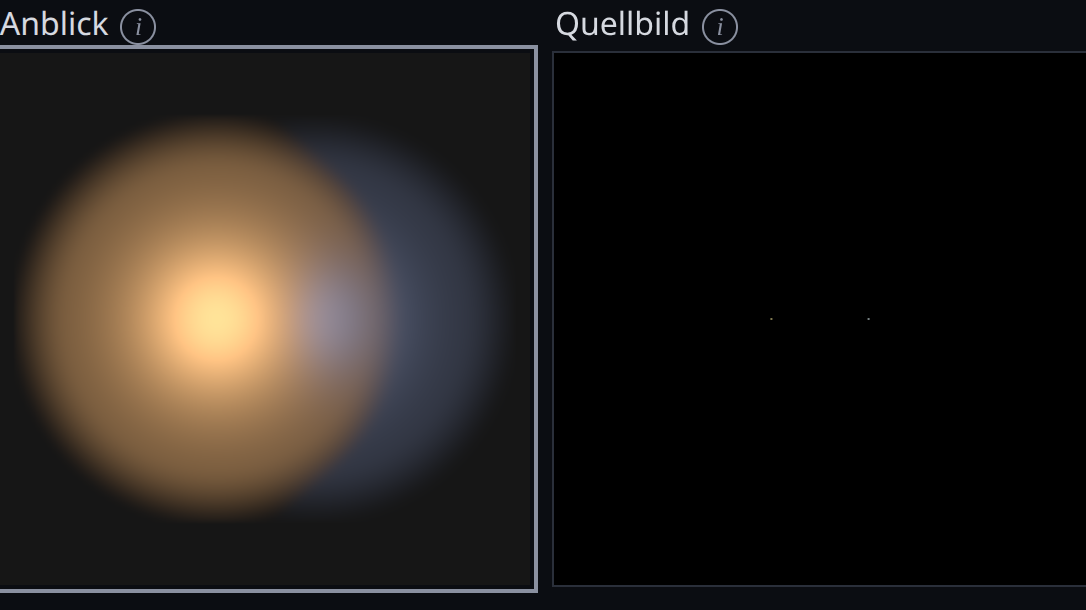
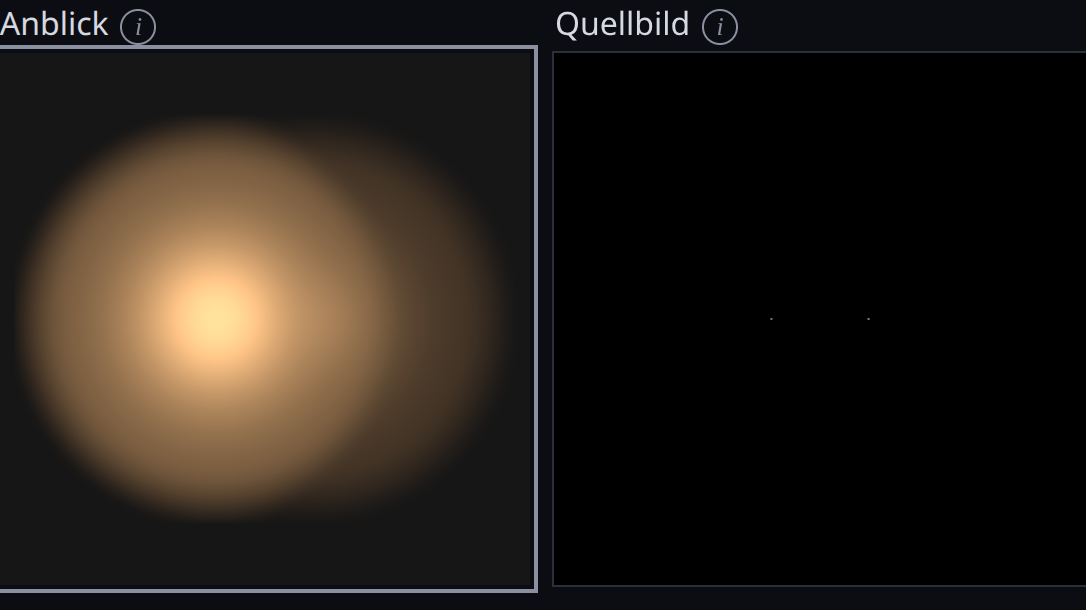
Validierung: Bilder und validierung.md 14 nach der Farbkopplung (Issue #146)
Geaendert: T7a, T7c, T8a, T8c, T9b, T9c (Zoom, Uebersicht, Detail T8c);
alle anderen Bilder bytegleich. 14.1 T7a einfarbig (Urteil Herbert
2026-11-02), T9b/T9c behoben (Urteil offen), neuer Abschnitt 14.6.

Changed region(s): [[0.2735, 0.2492, 0.4558, 0.8098]]

diff --git a/docs/validierung.md b/docs/validierung.md
@@ -413,13 +413,13 @@ Testfaelle aus `docs/recherche/README.md` (bestaetigt 2026-10-29, T11 mit $F$ = 
 
 | Fall | Erwartung | Messung (Bild: Delle der Punktebene; feines Modell; Anzeige) | Urteil (Vorschlag) | Urteil Herbert |
 |---|---|---|---|---|
-| T7a, T7c | 80 mm: Pi Aql und Epsilon Ari nicht getrennt, laenglich | $\delta$ = 0 und 0 (fein 0 und 0); ein laenglicher Fleck ohne Einsattelung. Pi Aql zeigt zwei Farben (A gelblich, B blaeulich) nebeneinander, Epsilon Ari ist einfarbig | bestanden (T7a: Farbe deutet die beiden Sterne an, Hinweis fuer Herbert) | Herbert 2026-10-30: bestanden |
+| T7a, T7c | 80 mm: Pi Aql und Epsilon Ari nicht getrennt, laenglich | $\delta$ = 0 und 0 (fein 0 und 0); ein laenglicher Fleck ohne Einsattelung. Pi Aql zeigt zwei Farben (A gelblich, B blaeulich) nebeneinander, Epsilon Ari ist einfarbig | bestanden (T7a: Farbe deutet die beiden Sterne an, Hinweis fuer Herbert). **Nach #146** (14.6): T7a einfarbig (Farbton an B gegen Spiegelpunkt 25 auf 1 Kode) | Herbert 2026-10-30: bestanden. Herbert 2026-11-02: T7a nach #146 einfarbig, gewollt (ungetrennt keine eigene Farbe, `doppelsterne.md` 10) |
 | T7b, T7d | 150 mm: beide getrennt | $\delta$ = 0,214 und 0,141 (fein 0,483 und 0,330); zwei Kerne mit flacher Einsattelung (Anzeige 116 / 111 / 116 und 145 / 135 / 138). **Nach #145** (14.5): $\delta$ = 0,476 und 0,331, Anzeige 122 / 108 / 122 und 152 / 135 / 143 | bestanden (Epsilon Ari knapp, 13 % ueber der Schwelle) | Herbert 2026-10-30: bestanden (Epsilon Ari knapp) |
 | T8a | 10x50: zwei runde Sterne | Weites Paar getrennt ($\delta$ = 1), Epsilon1 und Epsilon2 je $\delta$ = 0; zwei runde Sterne (Uebersicht und Zoom) | bestanden | Herbert 2026-10-30: bestanden |
 | T8b | 80 mm, 0,5'': beide engen Paare getrennt | Epsilon2 $\delta$ = 0,515 (fein 0,623), zwei Kerne; Epsilon1 $\delta$ = 0 (fein 0,139): laenglich, zwei unterschiedlich gefaerbte Kerne, aber keine Einsattelung (Detail, Profil quer 96 / 105 / 106 / 106 / 107). **Nach #145** (14.5): Epsilon1 im Detail $\delta$ = 0,134 (fein 0,142), zwei Kerne mit Beugungsring, Anzeige 130 / 112 / 114 (2 Kodes); im Zoom 0,072; Epsilon2 0,523 | **Abweichung** (Epsilon1 nicht getrennt); nach #145 bestanden (Epsilon1 im Detail knapp, 7 % ueber der Schwelle, am Bildschirm 2 Kodes) | Herbert 2026-10-30: Abweichung, [#145](https://github.com/herr-cbert/astobsim/issues/145) (Version 2). Herbert 2026-11-02: nach #145 getrennt, Kriterium ist das Detailfenster (im Zoom genuegt 0,072 nicht, die Anzeige tastet dort zu grob ab; kein Folge-Issue) |
 | T8c | 80 mm, 2'': keines getrennt | $\delta$ = 0 und 0,002; zwei leicht laengliche Flecke | bestanden | Herbert 2026-10-30: bestanden |
 | T9a | 150 mm, 0,5'': B getrennt, Hinweis "Ueberstrahlung nicht simuliert" | $\delta$ = 0,303 (fein 0,527); B als blaeulicher Fleck am Rand des orangen Halos (Anzeige A 219, Sattel 143, B 155); Warnung `ueberstrahlung` mit 4,44 mag. **Nach #145** (14.5): $\delta$ = 0,497 (vor der Nacharbeit Halo-Rand 0,500), Anzeige A 220, Sattel 143, B 168 | bestanden | Herbert 2026-10-30: bestanden |
-| T9b, T9c | 1,5'' oder 15 Grad Hoehe: nicht getrennt | $\delta$ = 0 und 0; keine Einsattelung, aber am Ort von B eine blaeulich-graue Stelle im orangen Halo (T9b sRGB 158 / 136 / 132 gegen 184 / 141 / 94 am Spiegelpunkt, T9c 140 / 130 / 143 gegen 152 / 115 / 77) | bestanden nach der Delle; **Abweichung** im Farbeindruck (B an der Farbe erkennbar), siehe 14.2 | Herbert 2026-10-30: Abweichung im Farbeindruck, [#146](https://github.com/herr-cbert/astobsim/issues/146) (Version 2) |
+| T9b, T9c | 1,5'' oder 15 Grad Hoehe: nicht getrennt | $\delta$ = 0 und 0; keine Einsattelung, aber am Ort von B eine blaeulich-graue Stelle im orangen Halo (T9b sRGB 158 / 136 / 132 gegen 184 / 141 / 94 am Spiegelpunkt, T9c 140 / 130 / 143 gegen 152 / 115 / 77) | bestanden nach der Delle; **Abweichung** im Farbeindruck (B an der Farbe erkennbar), siehe 14.2. **Nach #146** (14.6): kein Farbfleck, Farbton an B wie am Spiegelpunkt (T9b 36 auf 0, T9c 50 auf 0 Kodes); B bleibt als orange Schulter im Halo; bestanden | Herbert 2026-10-30: Abweichung im Farbeindruck, [#146](https://github.com/herr-cbert/astobsim/issues/146) (Version 2). Nach #146: Urteil Herbert offen |
 | T10a | 80 mm, 80-fach: kleines Oval sichtbar, Loch hoechstens angedeutet | Isophote 20,30 mag/arcsec$^2$, 4373 arcsec$^2$ (Oval 88'' x 60'': 4147); Anzeige Himmel 25, Ring 40, Mitte 35 bis 36: ovaler Ring mit sichtbar dunklerer Mitte. Loch linear: Delle 0,556 nach der Faltung (Python am Quellbild, gerechnet) | Oval bestanden; **Abweichung** beim Loch (deutlich statt angedeutet; die Literatur ist uneins, `deep-sky.md` 8 Punkt 1) | Herbert 2026-10-30: bestanden mit Anmerkung: Loch am Bild eher angedeutet (Mitte 35 gegen Ring 40), Literatur uneins; kein Issue |
 | T10b | 150 mm: Ring mit dunkler Mitte | Isophote 20,90, 4692 arcsec$^2$; Anzeige Himmel 28, Ring 44, Mitte 39; Loch linear 0,576 | bestanden; das Bild unterscheidet sich vom 80 mm kaum (etwas heller, gleicher Kontrast) | Herbert 2026-10-30: bestanden |
 | T11a | Bortle 3: M31 sichtbar, laenglich, 1,5 bis 3 Grad | $C/C_\mathrm{th}$ = 1 (Vorzeichenwechsel), Isophote 22,47, grosse Achse 101' (Prototyp 106'); laengliche Scheibe mit hellem Kern, an beiden Enden schwach die Stufen der Mosaikkante (Abschnitt 10) | bestanden | Herbert 2026-10-30: bestanden |
@@ -434,7 +434,7 @@ Testfaelle aus `docs/recherche/README.md` (bestaetigt 2026-10-29, T11 mit $F$ = 
 ### 14.2 Pruefpunkte aus architektur.md 5.7
 
 - **Deckkraft am gefalteten $q$ bei M57 am 80 mm (T10a).** Gerechnet in Python: Quellbild nach der log-Kennlinie linear, flaechig auf den Arbeitsmassstab 2,20'' gemittelt, mit dem Kern aus `auswerten` (9 px, Gesamt-FWHM 2,59'') gefaltet; $q^*$ = 0,0370 aus der Tabelle des ungefalteten Bilds. Deckkraft ungefaltet gegen gefaltet: Mitte 1,000 / 1,000, Ring 1,000 / 1,000; Flaeche mit $P \ge$ 0,5 4471 / 4654 arcsec$^2$ (Tabelle 4373); grosse Achse 86,8'' / 87,9''; Delle des Lochs (linear) 0,576 / 0,556. Am 150 mm (1,47'', 11 px): Flaeche 4719 / 4867 (Tabelle 4692). Die Rechnung trifft die Anzeigewerte des Screenshots (Himmel 25, Ring 40, Mitte 35 bis 36). **Ergebnis:** Die Naeherung verschiebt die sichtbare Flaeche um 4 % und die Achse um 1''; bei M57 liegt $q^*$ auf der steilen Aussenkante und die Faltung (2,6'') ist klein gegen das Objekt (88''). Bestanden, kein Issue; erledigt (Herbert 2026-10-30).
-- **Mischfarbe Antares B im Halo von A (T9).** Gerechnet mit `falteFaerbung` am Pixel von B: bei 0,5'' (getrennt) traegt B 88 % des Flusses, die Farbe ist 0,90 / 0,98 / 1,50 (linear sRGB, Y = 1) gegen B allein 0,80 / 0,99 / 1,65 und A 1,62 / 0,88 / 0,36: etwas weniger blau als B, als Fleck klar blaeulich (Bild 140 / 145 / 174). Bei 1,5'' (nicht getrennt) traegt B nur 24 %, die Farbe ist 1,42 / 0,91 / 0,67, also orange; trotzdem ist B im Bild als blaeulich-graue Stelle am Rand des Halos zu sehen (T9b, Zahlen in 14.1), weil der Halo von A dort orange und dunkler ist. **Ergebnis:** Die Mischung selbst ist plausibel und bleibt; offen ist, ob der Begleiter ohne Einsattelung an der Farbe erkennbar sein soll: [#146](https://github.com/herr-cbert/astobsim/issues/146) (Version 2, Herbert 2026-10-30).
+- **Mischfarbe Antares B im Halo von A (T9).** Gerechnet mit `falteFaerbung` am Pixel von B: bei 0,5'' (getrennt) traegt B 88 % des Flusses, die Farbe ist 0,90 / 0,98 / 1,50 (linear sRGB, Y = 1) gegen B allein 0,80 / 0,99 / 1,65 und A 1,62 / 0,88 / 0,36: etwas weniger blau als B, als Fleck klar blaeulich (Bild 140 / 145 / 174). Bei 1,5'' (nicht getrennt) traegt B nur 24 %, die Farbe ist 1,42 / 0,91 / 0,67, also orange; trotzdem ist B im Bild als blaeulich-graue Stelle am Rand des Halos zu sehen (T9b, Zahlen in 14.1), weil der Halo von A dort orange und dunkler ist. **Ergebnis:** Die Mischung selbst ist plausibel und bleibt; offen ist, ob der Begleiter ohne Einsattelung an der Farbe erkennbar sein soll: [#146](https://github.com/herr-cbert/astobsim/issues/146) (Version 2, Herbert 2026-10-30). **Erledigt mit #146** (14.6): Farbkopplung an die Delle, ungetrennt bekommt B die Mischfarbe des gemeinsamen Lichts.
 
 ### 14.3 Sternzahl M13 (Pruefpunkt aus Abschnitt 12)
 
@@ -452,7 +452,7 @@ Von Herbert am 2026-10-30 entschieden: Punkte 1 bis 4 sind Issues, Punkt 5 ist k
 
 1. **[#145](https://github.com/herr-cbert/astobsim/issues/145) (Version 2), T8b: Epsilon1 Lyrae am 80 mm bei 0,5'' nicht getrennt.** Das feine Modell trennt knapp ($\delta$ = 0,139), das Bild nicht: Am Arbeitsmassstab Gesamt-FWHM / 2,5 (0,64'') wird jeder Stern als Scheibchen von einem Arbeitspixel gemalt und gefaltet; das verbreitert den Stern und verschluckt die Einsattelung. Dieselbe Ursache halbiert die Delle bei T7b, T7d und T9a (0,214 / 0,141 / 0,303 statt 0,483 / 0,330 / 0,527). Moegliche Abhilfe: feinerer Arbeitsmassstab oder Punktquellen als Punkte (Subpixel) fuer Doppelsterne.
 2. **[#147](https://github.com/herr-cbert/astobsim/issues/147) (Spaeter, bis dahin Grenze des Modells), T11d: Pleione von Atlas getrennt, sieben statt sechs Plejaden bei Bortle 7.** Pleione liegt 301'' von Atlas, die Augenaufloesung von 1' (A-P2) trennt sie in jedem Fall; die Erwartung ("verschmolzen") setzt eine groebere Aufloesung des Auges fuer schwache Sterne voraus (vgl. `doppelsterne.md` 7 Punkt 5, Epsilon Lyrae mit blossem Auge). Die Zahl sieben folgt aus der Grenzgroesse 5,17 (Pleione 5,05). Entscheidung noetig: Modellgrenze dokumentieren oder Augenaufloesung fuer schwache Sterne einfuehren.
-3. **[#146](https://github.com/herr-cbert/astobsim/issues/146) (Version 2), T9b, T9c und Pruefpunkt Mischfarbe: Antares B ohne Einsattelung an der Farbe erkennbar.** Die flussgewichtete Faerbung zeigt am Ort von B eine blaeulich-graue Stelle im orangen Halo von A, obwohl die Helligkeit keine Einsattelung hat. Zu klaeren: ist das der richtige Anblick (der Begleiter faellt in Wirklichkeit oft gerade durch die Farbe auf) oder soll die Farbe unter der Trennschwelle nicht als eigener Fleck erscheinen.
+3. **[#146](https://github.com/herr-cbert/astobsim/issues/146) (Version 2), T9b, T9c und Pruefpunkt Mischfarbe: Antares B ohne Einsattelung an der Farbe erkennbar.** Die flussgewichtete Faerbung zeigt am Ort von B eine blaeulich-graue Stelle im orangen Halo von A, obwohl die Helligkeit keine Einsattelung hat. Zu klaeren: ist das der richtige Anblick (der Begleiter faellt in Wirklichkeit oft gerade durch die Farbe auf) oder soll die Farbe unter der Trennschwelle nicht als eigener Fleck erscheinen. **Behoben mit #146** (14.6, Entscheidung Herbert 2026-11-02: kein eigener Farbfleck unterhalb der Trennschwelle).
 4. **[#148](https://github.com/herr-cbert/astobsim/issues/148) (Spaeter), M13: Sternzahl am 80 und 200 mm ueber der Erwartung.** 44 statt hoechstens einer Handvoll und 281 statt einiger Dutzend bis gut hundert. Zu pruefen: Grenzgroesse am Fernrohr gegen Beobachtungsdaten (W3) und die Grenzgroesse vor dem Restlicht des Haufens statt vor dem Himmel.
 5. **Kein Issue, T10a: Loch von M57 am 80 mm.** Herbert: am Bild eher angedeutet, bestanden mit Anmerkung. Urspruenglicher Vorschlag: Das Bild zeigt am 80 mm denselben Ring wie am 150 mm (Mitte 35 gegen Ring 40 bzw. 39 gegen 44); die Deckkraft ist im ganzen Ring und in der Mitte 1, das Loch wird also mit vollem Kontrast gezeigt. Die Literatur ist uneins ("even a 7.5 cm telescope will reveal its elliptical ring shape" gegen "elongated hazy spot"), deshalb nur als Frage: Erwartung anpassen oder Kontrastschwelle fuer Strukturen innerhalb sichtbarer Objekte (bisher nur die Isophote am Rand).
 
@@ -473,3 +473,18 @@ Gemessen: $\delta$ wie in 14 (Punktebene linear, 540 px), Anzeige am PNG entlang
 **Bilder (geprueft, Read auf die PNG):** geaendert sind die Zooms T7a bis T7d, T8a, T8b, T8c, T9a bis T9c, die Details T8b, T8c, T11c, T11d, M13a bis M13c, die Uebersichten T4a, T4b, T11c, T11d und die Zooms T11c, T11d. Bytegleich sind T1 bis T3, T5, T6, T10, T11a, T11b, T12, P1 bis P3, die Uebersichten T7 bis T9 und M13 sowie die Zooms M13 (dort ist die Anzeige nicht feiner als das Arbeitsraster oder kein Stern im Fenster). Ausser bei den Doppelsternen sind die Aenderungen klein: Jupitermonde in T4a, T4b und Plejaden T11c, T11d hoechstens 7 Kodes (Halo der Punkte etwas kleiner und runder), M13-Details hoechstens 3 Kodes. Bei den Doppelsternen sind die Kerne schaerfer, bei 80 mm und 0,5'' ist der erste Beugungsring zu sehen (T8b Detail), und der Rand des Halos (Randfenster, `physik.md` 24) war im ersten Stand deutlicher als vorher, weil das grobe Raster ihn nicht mehr verschmiert.
 
 **Nacharbeit Halo-Rand (2026-11-02, Entscheidung Herbert).** Im ersten Stand hatte der Halo um T7b eine Stadion-Form mit harter Kante (36 auf 18 Kodes auf 16 Anzeigepixeln). Ursache und Fix in `physik.md` 31 (Form des Randfensters): auf der feineren Punktebene $\cos^6$ ab $\tfrac34 r$ statt $\cos^2$ ab $\tfrac23 r$, der angezeigte Halo laeuft damit wie $\cos^2$ ohne Kante aus. Dellen T7b, T7d, T8b (Detail und Zoom), T8c unveraendert, T9a 0,497 statt 0,500; die Anzeige an Sternen und Sattel aendert sich hoechstens um 1 Kode (T9a: Sattel und B wie oben). Geaendert sind genau die Bilder aus der Liste oben, alle anderen sind bytegleich: am Halo-Rand der Doppelsterne bis 17 Kodes (T7a bis T8c), bei Antares (T9a bis T9c, heller Halo) bis 42 Kodes, Jupitermonde T4a/T4b bis 6, Plejaden T11c/T11d bis 5, M13-Details bis 2 Kodes. Angesehen (vorher/nachher, aufgehellt): T7b, T9b, T8b-Detail, T11c-Detail; der Halo ist rund und weich, zwischen zwei Sternen bleibt oben und unten eine leichte Einschnuerung (beide Halos enden beim Kernradius). Antares B bei 1,5'' (T9b) ist etwas blauer als vorher (B 164 / 143 / 144 statt 171 / 143 / 131), siehe [#146](https://github.com/herr-cbert/astobsim/issues/146).
+
+### 14.6 Nachtrag Issue #146: Farbkopplung an die Delle
+
+**Stand:** Claude am 2026-11-02, Urteil Herbert offen. Entscheidungen Herbert 2026-11-02: Variante "Farbe an die Delle gekoppelt", Delle aus dem feinen Modell (unabhaengig vom Fenster), Uebergang linear $\sigma = \min(1, \delta / 0{,}125)$, T7a einfarbig gewollt. Modell, Formel und Literatur in `physik.md` 32 und `doppelsterne.md` 10. Tabellen-Tests in `src/validierung_v2.test.ts` (Farbton an B gegen Spiegelpunkt am Punktanteil, Kopplung je Paar in Zoom und Uebersicht).
+
+| Fall | Delle fein | $\sigma$ | Zoom-PNG: B / Spiegelpunkt vorher | nachher | Farbton-Differenz vorher / nachher |
+|---|---|---|---|---|---|
+| T9a | 0,523 | 1 | 147 / 159 / 197 gegen 119 / 91 / 61 | bytegleich | 63 / 63 |
+| T9b | 0 | 0 | 164 / 143 / 144 gegen 167 / 127 / 85 | 183 / 140 / 96 gegen 166 / 128 / 87 | 36 / 0 |
+| T9c | 0 | 0 | 141 / 135 / 151 gegen 142 / 108 / 72 | 170 / 130 / 89 gegen 141 / 108 / 74 | 50 / 0 |
+| T7a | 0 | 0 | 100 / 103 / 118 gegen 82 / 74 / 67 | 108 / 102 / 104 gegen 78 / 74 / 76 | 25 / 1 |
+
+Gemessen am Zoom-PNG (Mittel 5 x 5 Pixel, Python), Farbton-Differenz: groesster Unterschied der Kanaele, nachdem jede Farbe auf Mittel 128 skaliert ist. T8b: $\varepsilon^1$ $\delta$ = 0,135, $\varepsilon^2$ 0,619 im feinen Modell, beide farbig; Zoom und Detail bytegleich.
+
+**Bilder (geprueft, Read auf die PNG, vorher/nachher nebeneinander):** geaendert sind Zoom und Uebersicht von T7a, T7c, T8a, T8c, T9b, T9c und das Detail T8c, sonst ist alles bytegleich (auch T7b, T7d, T8b, T9a, T1 bis T6, T10 bis T12, P1 bis P3, M13). T9b und T9c: die blaeulich-graue Stelle und die blaue Sichel jenseits des Halos von A sind weg; der Halo ist zur Seite von B laenger und dort orange (Schulter von B). T7a: ein laenglicher, neutral grauer Fleck statt gelblich und blaeulich nebeneinander. T7c, T8a, T8c: hoechstens 3 Kodes im Anblick (die Paare haben aehnliche Farben). Das Quellbild des Zooms ist ueberall bytegleich: es zeigt die eigenen Farben der Sterne (`farbe`), nur der Anblick die Anzeigefarbe (`farbeAnzeige`). Ein einzelner Lauf lieferte T12b-Zoom mit 3 Kodes Abweichung, ein zweiter bytegleich (Rauschen des Laufs, nicht uebernommen). Bei T9c bleibt die atmosphaerische Dispersion unberuecksichtigt ([#151](https://github.com/herr-cbert/astobsim/issues/151), Spaeter).
